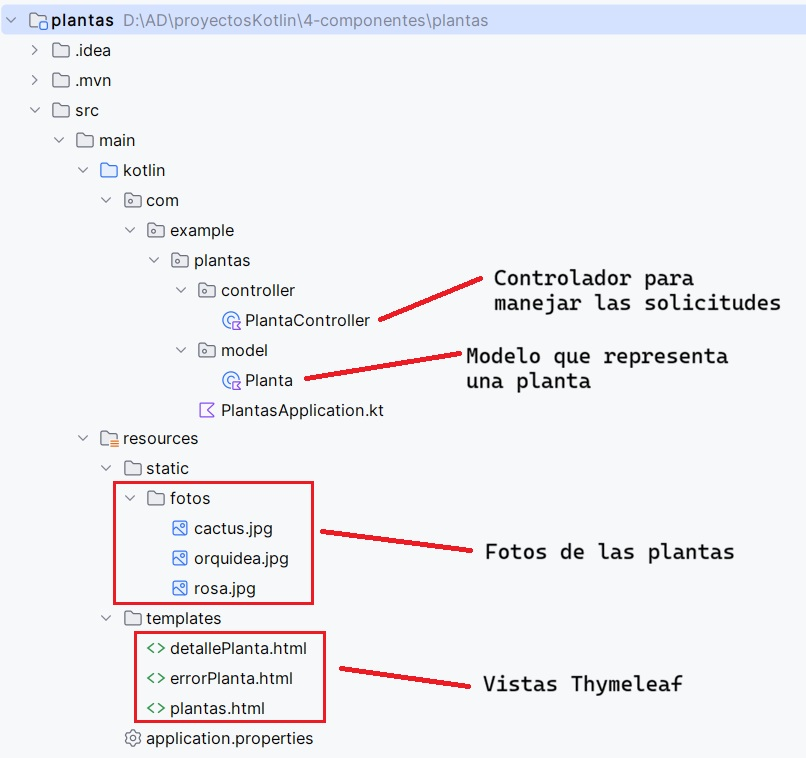
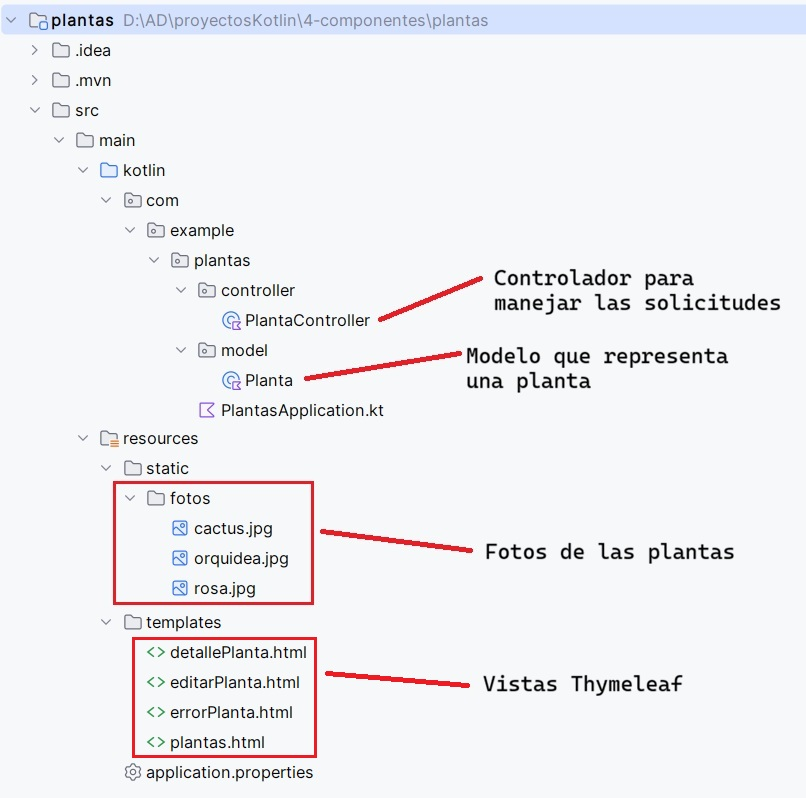
ene03

diff --git a/docs/4_Componentes.md b/docs/4_Componentes.md
@@ -379,9 +379,9 @@ Thymeleaf es un motor de plantillas que permite mezclar HTML con datos dinámico
 | **`th:value`**  | Rellena el valor de un campo de formulario (`input`, `textarea`, etc.) con un valor dinámico.          | `<input type="text" th:value="${planta.nombre}" />`                                                   |
 | **`th:field`**  | Asocia un campo de formulario con un atributo del modelo de Spring, vincula los datos automáticamente. | `<input type="text" th:field="*{nombre}" />`                                                          |
 
-<span class="mis_ejemplos">Ejemplo 2: Aplicación que muestra un listado de plantas utilizando Spring MVC y Thymeleaf</span>
+<span class="mis_ejemplos">Ejemplo 2: Aplicación utilizando Spring MVC y Thymeleaf</span>
 
-Vamos a crear la aplicación paso a paso para poder explicar cada concepto.
+A continuación se describen los pasos para crear una aplicación que muestra una lista con nombres de planas y junto a cada nombre un enlace que mostrará los detalles de la planta. Desde la pantalla de detalles, se podrá acceder a un formulario para modificar la infromación de la planta.
 
 **PASO 1: Crear el proyecto**
 
@@ -426,7 +426,7 @@ fun main(args: Array<String>) {
 
 **PASO 3: Añadir el controlador**
 
-Es quién manejará las solicitudes. Creamos el archivo `PlantaController.kt` dentro de la carpeta `src/main/kotlin/com/example/plantas/controller/` con el código siguiente:
+El controlador es quién manejará las solicitudes ya que recibe las peticiones HTTP, decide qué datos se usan y devuelve la vista adecuada. Es decir, gestionar la visualización y edición de plantas en la web. Para añadir el controlador, creamos el archivo `PlantaController.kt` dentro de la carpeta `src/main/kotlin/com/example/plantas/controller/` con el código siguiente:
 
 ```kotlin
 package com.example.plantas.controller
@@ -436,22 +436,22 @@ import org.springframework.stereotype.Controller
 import org.springframework.ui.Model
 import org.springframework.web.bind.annotation.GetMapping
 import org.springframework.web.bind.annotation.PathVariable
+import org.springframework.web.bind.annotation.PostMapping
+
 
 @Controller
 class PlantaController {
 
-
-    private val plantas = listOf(
+    private val plantas = mutableListOf(
         Planta(1, "Rosa", "Flor", 0.5, "rosa.jpg"),
         Planta(2, "Cactus", "Suculenta", 1.2, "cactus.jpg"),
-        Planta(3, "Orquídea", "Flor", 0.3, "orquidea.jpg")
+        Planta(5, "Orquídea", "Flor", 0.3, "orquidea.jpg")
     )
-
 
     @GetMapping("/plantas")
     fun mostrarPlantas(model: Model): String {
         model.addAttribute("plantas", plantas)
-        return "plantas" // vista de la lista de plantas (Nombre del archivo HTML en src/main/resources/templates/)
+        return "plantas" // vista de la lista de plantas (Nombre del archivo HTML en src/main/resources/templates)
     }
 
     // Detalles de una planta
@@ -468,28 +468,80 @@ class PlantaController {
         model.addAttribute("planta", planta)
         return "detallePlanta" // vista de detalle de una planta
     }
+
+    // formulario para modificar
+    @GetMapping("/planta/editar/{id_planta}")
+    fun editarPlanta(
+        @PathVariable id_planta: Int,
+        model: Model
+    ): String {
+
+        val planta = plantas.find { it.id_planta == id_planta }
+            ?: return "errorPlanta"
+
+        model.addAttribute("planta", planta)
+        return "editarPlanta"
+    }
+
+    @PostMapping("/planta/guardar")
+    fun guardarCambios(plantaModificada: Planta): String {
+
+        val planta = plantas.find { it.id_planta == plantaModificada.id_planta }
+
+        if (planta != null) {
+            planta.nombre = plantaModificada.nombre
+            planta.tipo = plantaModificada.tipo
+            planta.altura = plantaModificada.altura
+            planta.foto = plantaModificada.foto
+        }
+        return "redirect:/planta/${plantaModificada.id_planta}"
+    }
 }
 ```
 
-**PASO 4: Crear la Clase del Modelo**
+Explicación del código:
 
-Representará un objeto planta. Creamos el archivo `Planta.kt` dentro de la carpeta `src/main/kotlin/com/example/plantas/model/` con el código siguiente:
+`@Controller` Indica a Spring que esta clase maneja peticiones web y devuelve vistas HTML.
+
+`@GetMapping` Muestra páginas HTML
+
+| Función             | Descripción                              |
+|--------------------|--------------------------------------------|
+| `@GetMapping("/plantas")`    | Muestra una lista de todas las plantas en `plantas.html`.                        |
+| `@GetMapping("/planta/{id_planta}")`  | Muestra información de detalle de una planta específica en `detallePlanta.html`. Si no existe, muestra `errorPlanta.html`. |
+| `@GetMapping("/planta/editar/{id_planta}")`   |  Carga la planta en un formulario de edición `editarPlanta.html`.             |
+
+`@PostMapping` Procesa el formulario para editar la infromación de una planta
+
+| Función         | Descripción                                                  |
+|--------------------|-------------------------------|
+| `@PostMapping("/planta/guardar")`   | Actualiza la planta en memoria y redirige al detalle con `redirect:/planta/{id}`.  Se utiliza `redirect` para evitar el reenvío de formularios |
+
+
+`Model`	Pasa datos a la vista
+
+`@PathVariable`	Lee datos de la URL
+	
+
+**PASO 4: Añadir el modelo**
+
+El modelo representa los datos que maneja la aplicación. Para añadir el modelo creamos el archivo `Planta.kt` dentro de la carpeta `src/main/kotlin/com/example/plantas/model/` con el código siguiente:
 
 ```kotlin
 package com.example.plantas.model
 
 data class Planta(
-    val id_planta: Int,
-    val nombre: String,
-    val tipo: String,
-    val altura: Double,
-    val foto: String
+    var id_planta: Int,
+    var nombre: String,
+    var tipo: String,
+    var altura: Double,
+    var foto: String
 )
 ```
 
-**PASO 5: Crear las Vistas con Thymeleaf**
+**PASO 5: Añadir las Vistas con Thymeleaf**
 
-Tal como hemos indicado en el controlador, necesitamos tres vistas, una para la lista de plantas, otra para el detalle de una planta y una tercera para avisar en caso de producirse un error. Por tanto tendremos tres archivos `html` todos ellos dentro de la carpeta `src/main/resources/templates/`.
+Tal como hemos indicado en el controlador, necesitamos cuatro vistas, una para la lista de plantas, otra para el detalle de una planta, una tercera para avisar en caso de producirse un error y la última para modificar la información de la planta. Por tanto tendremos cuatro archivos `html` todos ellos dentro de la carpeta `src/main/resources/templates/`.
 
 El archivo que mostrará la lista de plantas será `plantas.html` y su código es el siguiente:
 
@@ -501,26 +553,21 @@ El archivo que mostrará la lista de plantas será `plantas.html` y su código e
     <title>Lista de Plantas</title>
 </head>
 <body>
-<h1>Lista de Plantas</h1>
 
-<p th:if="${plantas.size() > 0}">Aquí tienes las plantas registradas:</p>
-<p th:unless="${plantas.size() > 0}">No hay plantas registradas en el sistema.</p>
+<div class="container mt-4">
 
-<ul>
-    <li th:each="planta : ${plantas}">
-        <!-- Mostrar nombre de la planta -->
-        <p th:text="${planta.nombre}">Nombre de la planta</p>
-
-        <!-- Mostrar tipo de la planta -->
-        <p th:text="'Tipo: ' + ${planta.tipo}">Tipo de planta</p>
-
-        <!-- Mostrar altura de la planta -->
-        <p th:text="'Altura: ' + ${planta.altura} + ' metros'">Altura de la planta</p>
+    <h1 class="mb-4">Plantas</h1>
+    <p th:if="${plantas.size() > 0}">Aquí tienes una lista de todas las plantas:</p>
+    <p th:unless="${plantas.size() > 0}">No se han encontrado plantas.</p>
+    
+    <p th:each="planta : ${plantas}">
+        <label th:text="${planta.id_planta}">Id de la planta</label> -
+        <label th:text="${planta.nombre}">Nombre de la planta</label> (<label th:text="${planta.altura}">Altura de la planta</label> m)
 
         <!-- Mostrar enlace a la página de detalles de la planta -->
         <a th:href="@{/planta/{id_planta}(id_planta=${planta.id_planta})}">Ver detalles</a>
-    </li>
-</ul>
+    </p>
+</div>
 </body>
 </html>
 ```
@@ -535,13 +582,18 @@ El archivo que mostrará el detalle de una plantas será `detallePlanta.html` y 
     <title>Detalles de la Planta</title>
 </head>
 <body>
-<h1 th:text="${planta.nombre}">Nombre de la planta</h1>
-<p th:text="'Tipo: ' + ${planta.tipo}">Tipo de planta</p>
-<p th:text="'Altura: ' + ${planta.altura} + ' metros'">Altura de la planta</p>
+
 <!-- Mostrar foto de la planta -->
 <img th:src="@{/fotos/{nombreImagen}(nombreImagen=${planta.foto})}" alt="Foto de la planta" style="width: 200px;">
 
+<h1 th:text="${planta.nombre}">Nombre de la planta</h1>
+<p th:text="'Tipo: ' + ${planta.tipo}">Tipo de planta</p>
+<p th:text="'Altura: ' + ${planta.altura} + ' metros'">Altura de la planta</p>
+
+<a th:href="@{/planta/editar/{id_planta}(id_planta=${planta.id_planta})}">Modificar planta</a>
+
 <p></p><a th:href="@{/plantas}">Volver a la lista de plantas</a></p>
+
 </body>
 </html>
 ```
@@ -562,6 +614,39 @@ El archivo que mostrará el aviso en caso de error será `errorPlanta.html` y su
 <p>La planta que estás buscando no existe.</p>
 
 <a th:href="@{/plantas}">Volver a la lista de plantas</a>
+
+</body>
+</html>
+```
+
+El archivo que mostrará el formulario para modificar la información de una planta será `editarPlanta.html` y su código es el siguiente:
+
+```html
+<!DOCTYPE html>
+<html xmlns:th="http://www.thymeleaf.org">
+<head>
+    <meta charset="UTF-8">
+    <title>Editar planta</title>
+</head>
+<body>
+
+<h1>Modificar planta</h1>
+
+<form th:action="@{/planta/guardar}"
+      th:object="${planta}"
+      method="post">
+
+    <input type="hidden" th:field="*{id_planta}">
+
+    <p><label>Nombre: </label><input type="text" th:field="*{nombre}"></p>
+    <p><label>Tipo: </label><input type="text" th:field="*{tipo}"></p>
+    <p><label>Altura: </label><input type="number" step="0.1" th:field="*{altura}"></p>
+    <p><label>Foto: </label><input type="text" th:field="*{foto}"></p>
+
+    <button type="submit">Guardar cambios</button>
+</form>
+
+<p><a th:href="@{/planta/{id_planta}(id_planta=${planta.id_planta})}">Volver al detalle</a></p>
 
 </body>
 </html>
